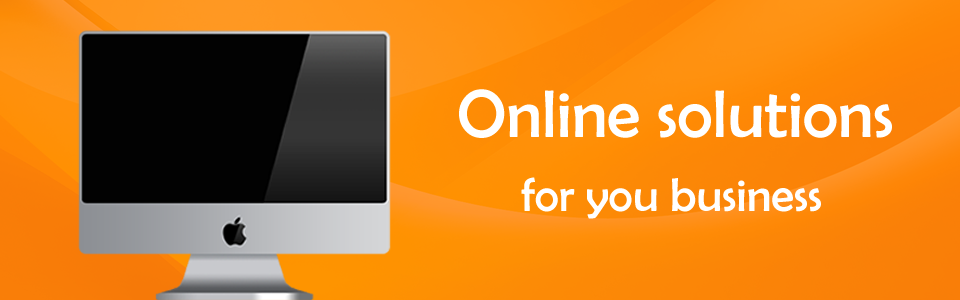
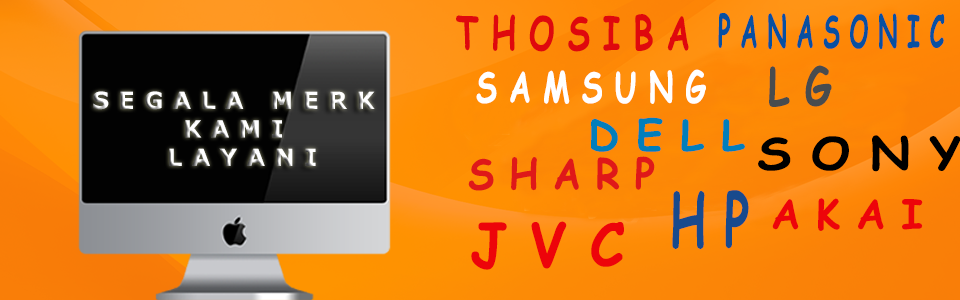
all

diff --git a/index.html b/index.html
@@ -1,7 +1,7 @@
 <!doctype html>  
 <head>
 <meta charset="UTF-8">
-<title>OnlineSolutions - Home</title>
+<title>Service Television Malang - Kusuma TV</title>
 <link rel="icon" href="images/favicon.gif" type="image/x-icon"/>
  <!--[if lt IE 9]>
  <script src="http://html5shiv.googlecode.com/svn/trunk/html5.js"></script>
@@ -35,7 +35,7 @@
     <header>
  
     <!--start logo-->
-    <a href="#" id="logo"><img src="images/logo.png" width="221" height="130" alt="logo"/></a>    
+    <a href="servicetvmlg.github.io" id="logo"><img src="images/logo.png" width="221" height="130" alt="logo"/></a>    
 
 	<!--end logo-->
 	
@@ -43,10 +43,9 @@
 
 	<nav>
     <ul>
-    <li><a href="#">Home</a></li>
-    <li><a href="#">About</a></li>
-		<li><a href="#">Portfolio</a></li>
-    <li><a href="#">News</a></li>
+    <li><a href="servicetvmlg.github.io">Home</a></li>
+    <li><a href="#">Facebook</a></li>
+		<li><a href="#">Twitter</a></li>
     <li><a href="#">Contact</a></li>
 
     </ul>
@@ -64,8 +63,8 @@
    <div id="slides">
    <div class="slides_container">
    <img src="images/banner1.png" width="960" height="300" alt="baner">
-   <img src="images/banner1.png" width="960" height="300" alt="baner">
-   <img src="images/banner1.png" width="960" height="300" alt="baner">
+   <img src="images/banner2.png" width="960" height="300" alt="baner">
+   <img src="images/banner3.png" width="960" height="300" alt="baner">
 
    </div>
    </div>
@@ -78,18 +77,17 @@
    <div class="holder_content1">
    
    <section class="group4">
-   <h1>Latest news</h1>
+   <h1>Comming Soon Chats Boxs</h1>
    <img src="images/icon3.png" width="51" height="52" alt="icons" class="icons"/>
 
    <article>
-   <h2>10.08.2011  -  Internet marketing</h2>
-
-   <p>Lorem ipsum dolor sit amet, consectetuer adipiscing elit. Donec molestie. Sed aliquam sem ut arcu. Phasellus sollicitudin. 
-   Vestibulum condimentum facilisis nulla. In hac habitasse platea dictumst. Nulla nonummy. Cras quis libero.   </p>
-
-   <p>Lorem ipsum dolor sit amet, consectetuer adipiscing elit. Donec molestie. Sed aliquam sem ut arcu. Phasellus sollicitudin. 
-   Vestibulum condimentum facilisis nulla. In hac habitasse platea dictumst. Nulla nonummy. Cras quis libero. 
-   </p>
+   <h2>Chats Boxs</h2>
+   <p>Lorem ipsum dolor sit amet, consectetur adipisicing elit, sed do eiusmod
+   tempor incididunt ut labore et dolore magna aliqua. Ut enim ad minim veniam,
+   quis nostrud exercitation ullamco laboris nisi ut aliquip ex ea commodo
+   consequat. Duis aute irure dolor in reprehenderit in voluptate velit esse
+   cillum dolore eu fugiat nulla pariatur. Excepteur sint occaecat cupidatat non
+   proident, sunt in culpa qui officia deserunt mollit anim id est laborum.</p>
    </article> 
    
    </section>
@@ -103,28 +101,31 @@
    <div class="holder_content">
 
    <section class="group1">
-   <h1> 1. Creative solutions</h1>
+   <h1>Ingin Service</h1>
    <img src="images/icon4.png" width="51" height="52" alt="icons" class="icons"/>
-   <p>Lorem ipsum dolor sit amet, consectetuer adipiscing elit. Donec molestie. Sed aliquam sem ut arcu. Phasellus sollicitudin. 
-   Vestibulum condimentum  facilisis nulla. In hac habitasse platea dictumst. Nulla nonummy. Cras quis libero.</p>
-   <a href=""><span class="button">Read more</span></a>
+   <p><h2>Tinggal Hubungi Kami Via SMS Atau Telepon</h2>.
+   <br>
+   Kami Melayani Service Panggilan Anda Hubungi Kami Datang</p>
+   <a href="#"><span class="button">^^^^^^^^^</span></a>
    </section>
 
    
    <section class="group2">
-   <h1>2. Consulting</h1>
+   <h1>Konsultasi</h1>
    <img src="images/icon2.png" width="51" height="52" alt="icons" class="icons"/>
-   <p>Lorem ipsum dolor sit amet, consectetuer adipiscing elit. Donec molestie. Sed aliquam sem ut arcu. Phasellus sollicitudin. 
-   Vestibulum condimentum  facilisis nulla. In hac habitasse platea dictumst. Nulla nonummy. Cras quis libero.</p>
-   <a href=""><span class="button">Read more</span></a>
+   <h2>Menyediakan Konsultasi Gratis </h2>
+   <br><br><br>
+   <a href="#"><span class="button">^^^^^^^^^</span></a>
    </section>
    
    <section class="group3">
-   <h1>3. Development</h1>
+   <h1>Coming Soon</h1>
    <img src="images/icon1.png" width="51" height="52" alt="icons" class="icons"/>
-   <p>Lorem ipsum dolor sit amet, consectetuer adipiscing elit. Donec molestie. Sed aliquam sem ut arcu. Phasellus sollicitudin. 
-   Vestibulum condimentum facilisis nulla. In hac habitasse platea dictumst. Nulla nonummy. Cras quis libero.   </p>
-   <a href=""><span class="button">Read more</span></a>
+   <h2>Coming Soon</h2>
+   <p>Lorem ipsum dolor sit amet, consectetur adipisicing elit, sed do eiusmod
+   temp
+   </p>
+   <a href=""><span class="button">^^^^^^^^^</span></a>
     
    </section>
 
@@ -140,31 +141,32 @@
    <footer>
    <div class="container">
    <section class="footer_left">
-   <h3>Contact information:
-   <span>Lorem ipsum dolor sit amet</span>
-   <span>Lorem ipsum dolor sit amet</span>
+   <h3>
+   <span></span>
+   <span></span>
    </h3>
    </section> 
    
    <section class="footer_left">
-   <h3>Website:
-   <span>Lorem ipsum dolor sit amet</span>
-   <span>Lorem ipsum dolor sit amet</span>
+   <h3>
+   <span></span>
+   <span></span>
    </h3>
    </section> 
 
    
    <aside class="footer_left">
-   <h3>Lorem ipsum:
-   <span>Lorem ipsum dolor sit amet</span>
-   <span>Lorem ipsum dolor sit amet</span>
+   <h3>Contact Us :
+   <span>Kusuma TV</span>
+   <span>telp : 08504173129</span>
+   <span>Malang</span>
    </h3>
    </aside> 
    <img src="images/contact-us.png" width="240" height="230" alt="contact" class="picture_footer"/>
 
     
-   <div id="FooterTwo"> © 2011 Online solutions </div>
-   <div id="FooterTree"> Valid html5 / design and code by <a href="http://www.marijazaric.com">marija zaric - creative simplicity</a> </div> 
+   <div id="FooterTwo"> © 2017 KS </div>
+   <div id="FooterTree">  design and code by <a href="dodyahmadkusuma.github.io">dody ahmad k </a> </div> 
    </div>
    </footer>
    <!--end footer-->
